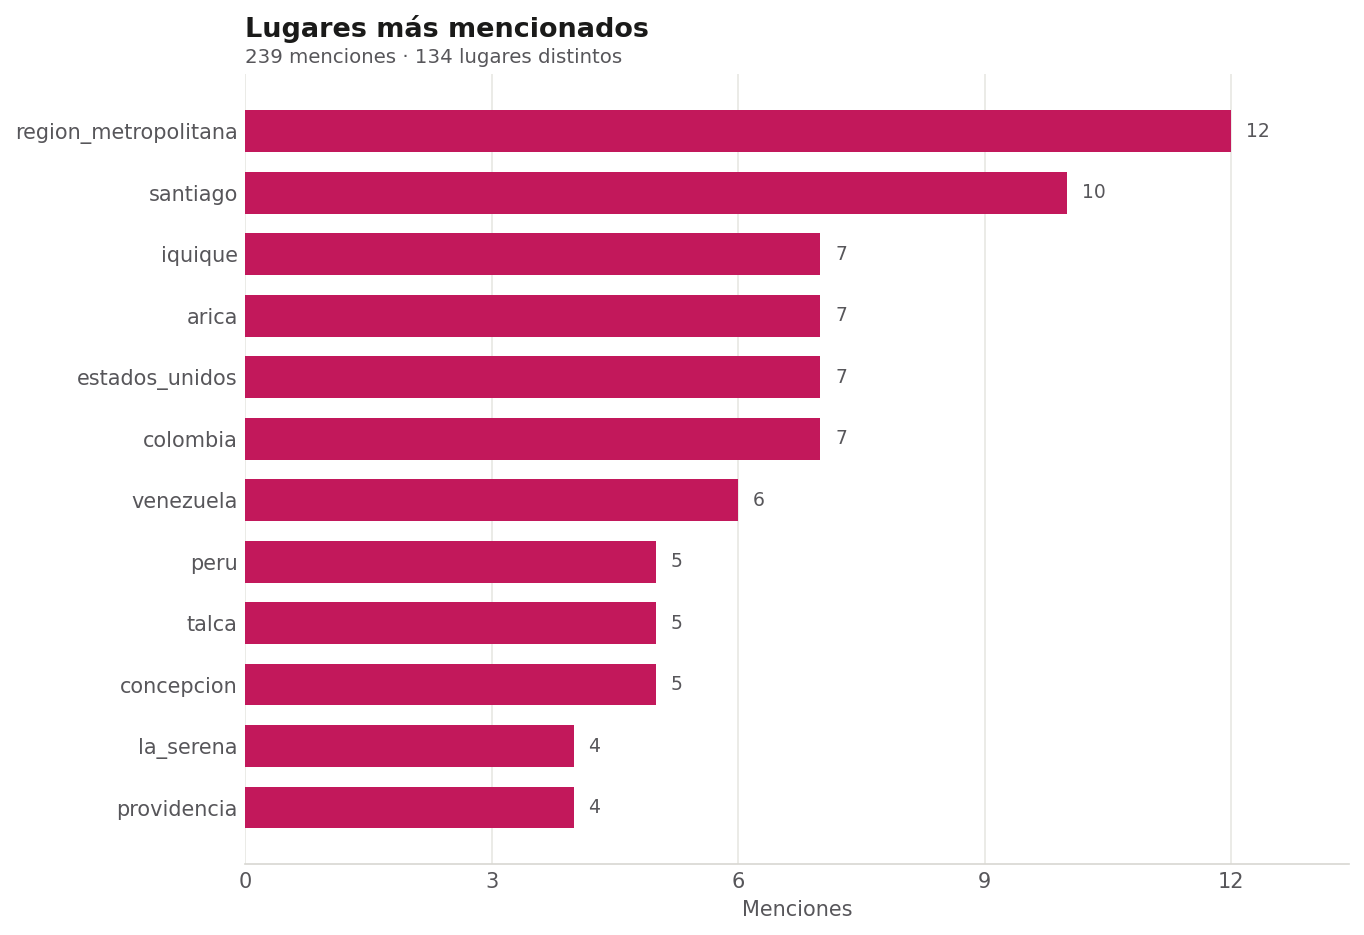
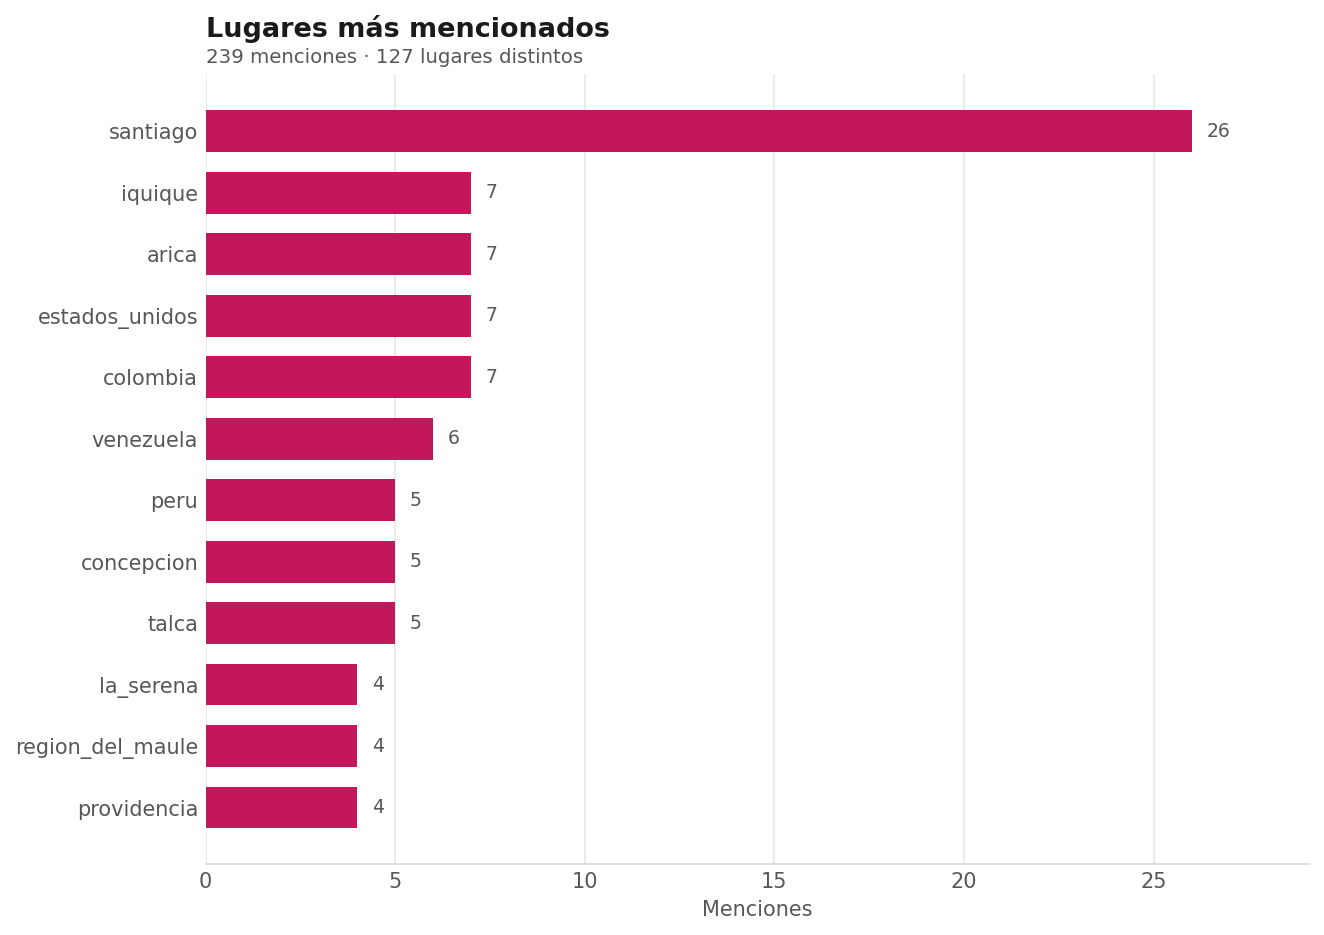
agrupo santiago

diff --git a/src/conocimiento/utilidades.py b/src/conocimiento/utilidades.py
@@ -76,6 +76,19 @@ AGRUPACIONES = {
     "automovil": "vehiculo",
     "automoviles": "vehiculo",
     "camioneta": "vehiculo",
+    "region_metropolitana": "santiago",
+    "region_metropolitana_de_santiago": "santiago",
+    "rm": "santiago",
+    "santiago_de_chile": "santiago",
+    "provincia_de_santiago": "santiago",
+    "region_metropolitana": "santiago",
+    "rm": "santiago",
+    "santiago_de_chile": "santiago",
+    "comuna_de_santiago": "santiago",
+    "centro_de_santiago": "santiago",
+    "santiago_centro": "santiago",
+    "santiago_1": "carcel_santiago_1",
+    "santiago_uno": "carcel_santiago_1",
 }
 
 #Categorias amplias para el ANALISIS, no para el vault.
